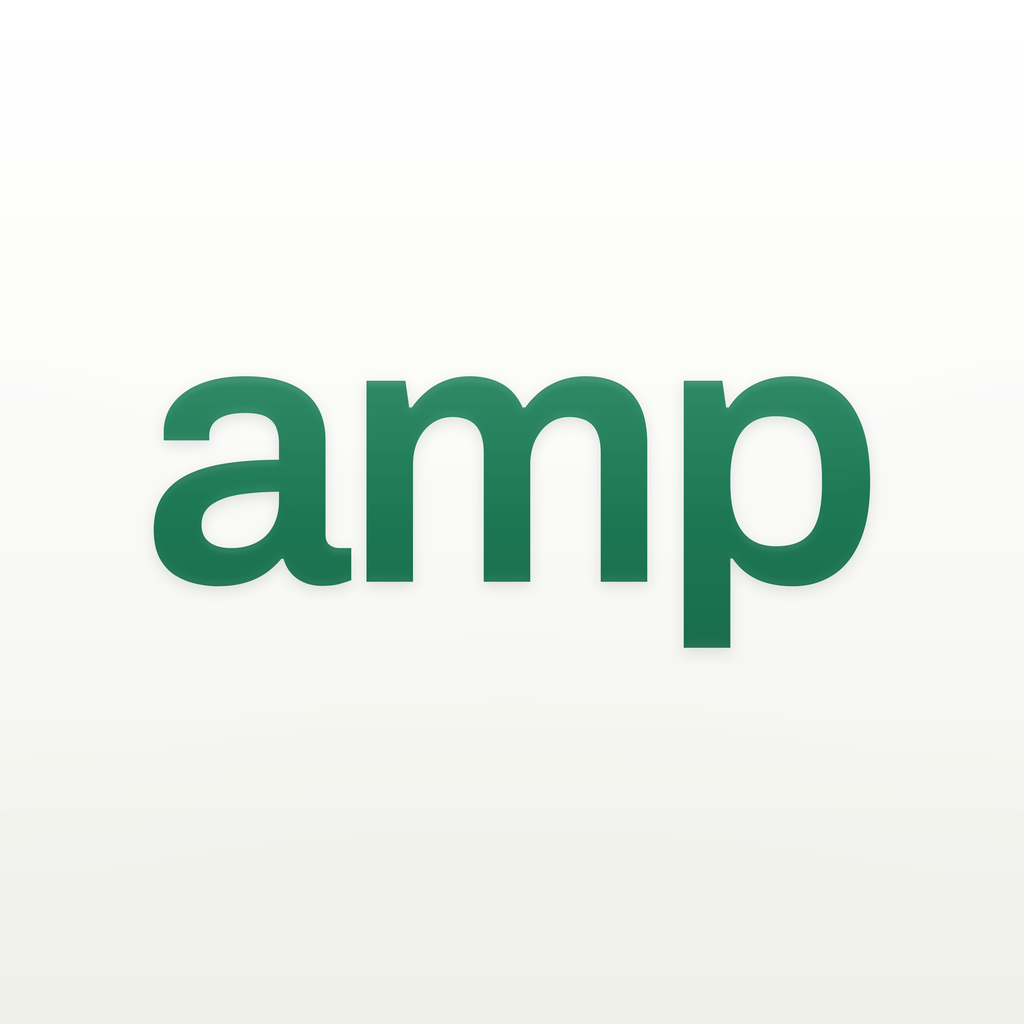
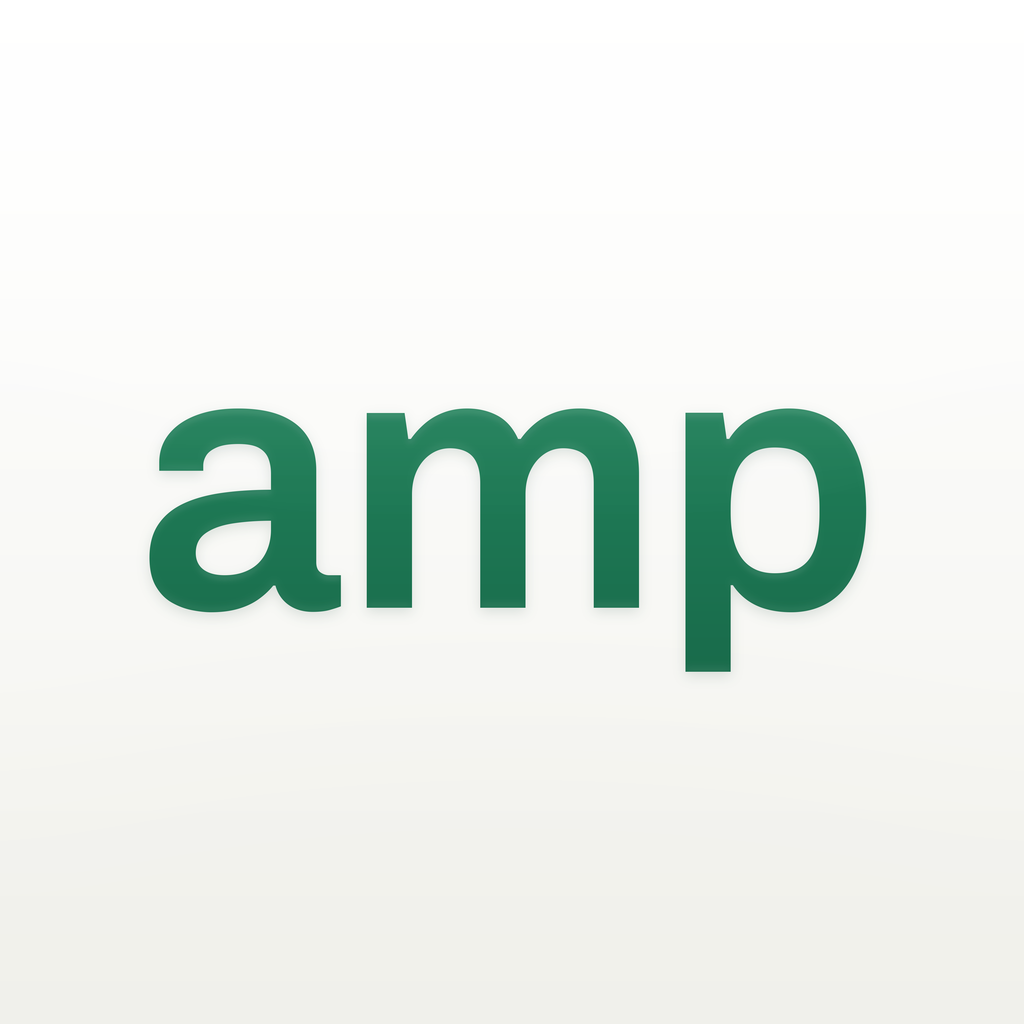
Set the wordmark on its own fit, centred on its mass
Tracking is back to zero. -3% was borrowed from the display variant, where it
suits a 34px headline; on the icon it crowded the a-m junction and cost more
at the 29px settings size than it bought at 1024.

And the word was centred on the wrong thing. The em box sits 'amp' low — it
is x-height plus one descender with nothing above — so the last pass centred
the ink box instead, which sits it high, because that descender is one thin
stem against a heavy x-height block. Centring the ink's centroid puts it 28px
below either, which is where the eye reads the middle.

diff --git a/README.md b/README.md
@@ -356,9 +356,12 @@ falls back to a traced vector below 32px and anywhere it has to take a colour
 small sizes anyway). brand green is `#186D4C`, sampled off that artwork.
 
 **the app icon is the wordmark, not the mark.** `assets/icon.png` is `amp` set
-in archivo semibold, brand green, tracked -3% and centred on its ink box rather
-than its em box — the word is x-height plus one descender, so the em box would
-sit it low. the mark is a road seen in perspective and its lane dashes disappear
+in archivo semibold, brand green, at the face's own fit — tracking it tighter
+crowded the a-m junction and cost more at 29px than it bought at 1024. it is
+centred on the ink's *mass*, not on any box: the em box sits the word low
+(x-height plus one descender, nothing above) and the ink box sits it high (that
+descender is one thin stem against a heavy x-height block). the centroid is
+where the eye puts the middle, about 28px below the two. the mark is a road seen in perspective and its lane dashes disappear
 at 60px on a home screen, where the name still reads. cut at 1024 from the
 archivo ttf, opaque (ios rejects an icon with alpha) and left square for ios to
 round. `design/amp-icon.svg` is the same artwork as a standalone file.
